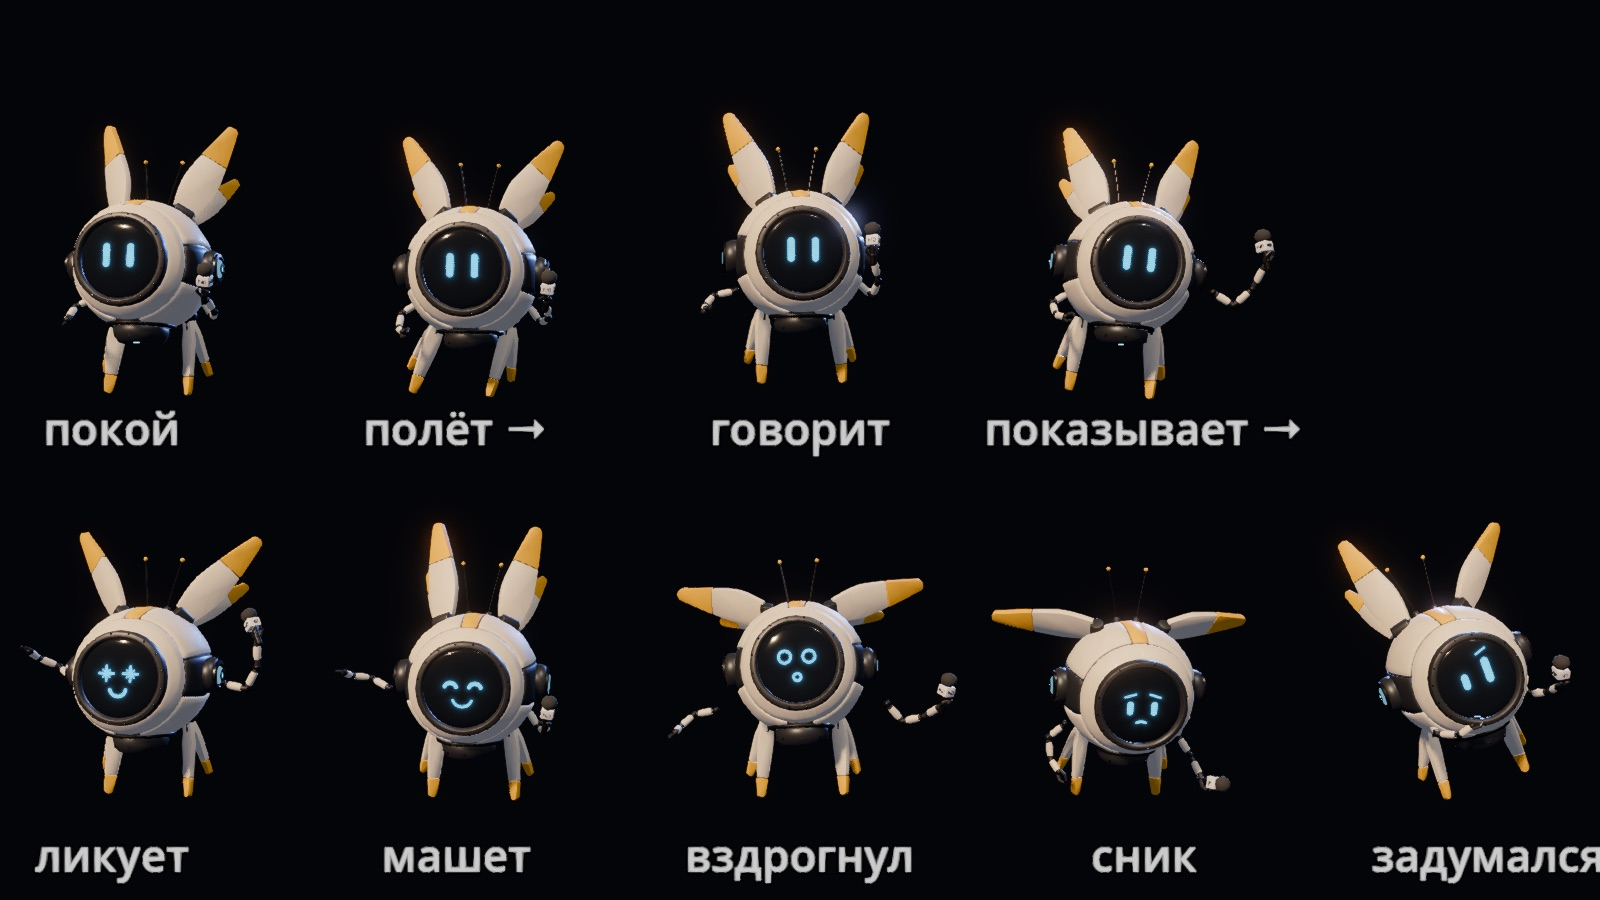
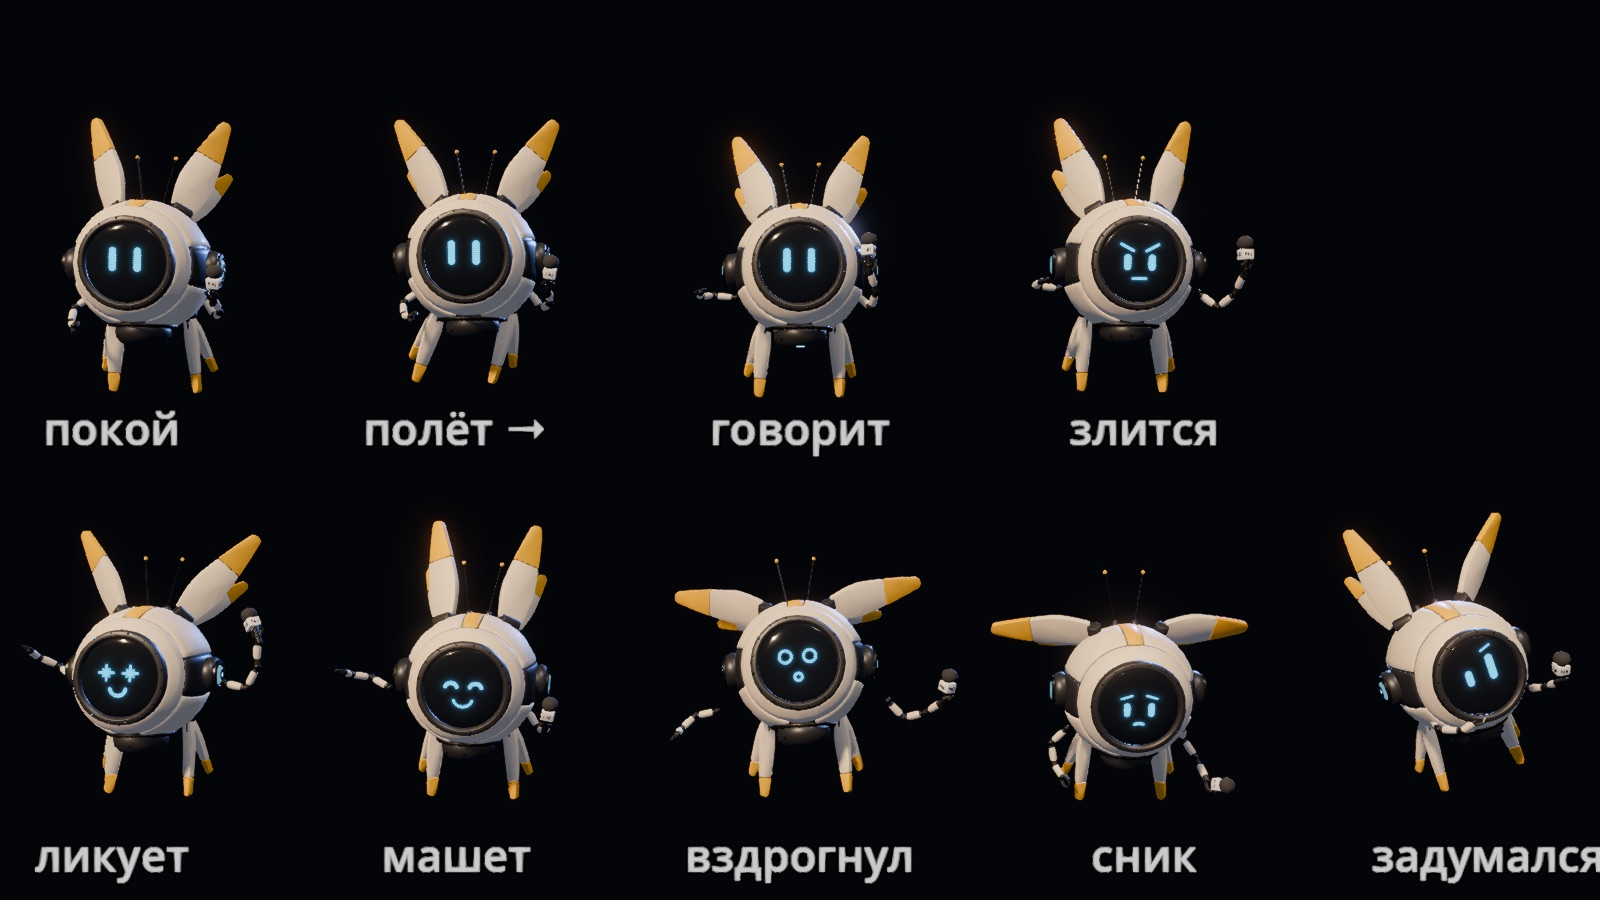
demo: где соперник — только стрелка HUD (метры под ней), N0 больше не подсказывает
Автор: «я имел в виду HUD, который показывает, в какой стороне соперник, и пишет внизу метры; ведущий не может так
подсказывать». Убрано: повод N0 «соперник далеко» (реплики с метрами и про стрелку), жест «показывает рукой» (point_at).
Стрелка за экраном: подпись «P2 · 15 м» теперь под стрелкой (у нижнего края — над ней).
n0_follow_probe 15/15 (lines_rules проверяет, что повода нет; anim_point_mic → anim_mic), null_field_probe 9/9,
arena_events_probe 8/8; лист жестов: вместо «показывает» — «злится».

diff --git a/docs/plan-demo/14-n0.md b/docs/plan-demo/14-n0.md
@@ -53,7 +53,7 @@
 - Быстрый бой вдвоём: второй человек попадает в кадр с первого нажатия своих клавиш, тогда кадр держит обоих (до 11 м);
 - `primary_doll()` — главная кукла кадра (P1); от неё меряют стрелки, рядом с ней летает N0.
 
-**Стрелка к сопернику** (`scenes/ui/offscreen_markers.gd`): «P2 · 15 м» у края экрана цвета игрока. Расстояние теперь от игрока, раньше было от центра кадра. Стрелка и подпись крупнее.
+**Стрелка к сопернику** (`scenes/ui/offscreen_markers.gd`): стрелка цвета игрока у края экрана, под ней «P2 · 15 м» (у нижнего края — над ней). Расстояние теперь от игрока, раньше было от центра кадра. Стрелка и подпись крупнее. Где соперник и сколько до него — подсказка только этого HUD: автор 02.10 — «ведущий не может так подсказывать» (первая версия N0 говорила метры и показывала рукой — убрано).
 
 **N0 рядом** (`scripts/n0/n0_host.gd`):
 - летит за плечом игрока: дуга радиусом 1.75 м, 55° от вертикали, со стороны, где нет соперника;
@@ -84,7 +84,6 @@
   - удар о мембрану;
   - сильный удар по игроку;
   - 10 с без ударов;
-  - соперник дальше 14 м дольше 5 с: «Соперник в 15 метрах. Сам он не прилетит»;
 - частота по «Правилам подачи» `N0_VOICE.md`: важное — всегда, мелкое — не чаще раза в 8 с, с шансом 50 % и только когда N0 молчит;
 - строки из `N0_VOICE.md` взяты как есть; поводы и строки сверх него — предложение, в `n0_lines.gd` помечены;
 - язык пока русский, английский лежит рядом в той же таблице для перевода.
@@ -98,6 +97,7 @@
   - N0 в кадре все 1200 кадров;
   - до соперника не ближе 1.5 м;
   - стрелка меряет от игрока: 22.0 м при реальных 22.0;
+  - N0 о расстоянии до соперника не говорит (повода нет в таблице);
   - реплики на поводах, правила частоты;
   - второй человек входит в кадр по нажатию;
 - снимок `tests/n0_follow_snapshot.tscn` (нужно окно) — кадры выше;
@@ -121,14 +121,13 @@
   - вздрогнул (сильный удар, крит);
   - сник (упал игрок, Sudden Death);
   - задумался (долгая тишина);
-  - трясёт кулаками (angry, пока без повода);
+  - злится, трясёт кулаками (angry, пока без повода);
   - дёргается (сбой голосования);
-- соперник далеко — показывает на него рукой, вместе с репликой «Соперник в N метрах»;
 - двигатель светится ярче на скорости.
 
 ![жесты](img/n0-gestures-v1.jpg)
 
-Лист — `tests/n0_gestures_snapshot.tscn` (нужно окно). Проверки тела — 4 новых пункта в `n0_follow_probe` (теперь 15 из 15): размах крыльев, отставание ножек, шесть жестов, показ рукой и микрофон у кисти (±1 мм). `n0_snapshot` 7/7.
+Лист — `tests/n0_gestures_snapshot.tscn` (нужно окно). Проверки тела — 4 новых пункта в `n0_follow_probe` (теперь 15 из 15): размах крыльев, отставание ножек, шесть жестов, микрофон у кисти (±1 мм). `n0_snapshot` 7/7.
 
 **Ответы автора (02.10):**
 - камера — «немного ближе ещё»: полувысота 4.2 → 3.6 м;
